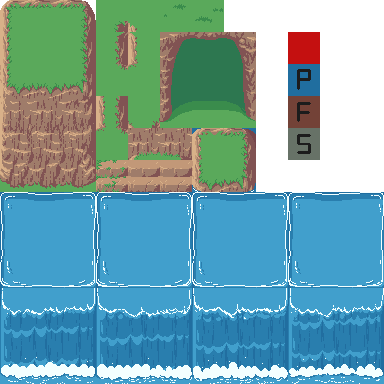
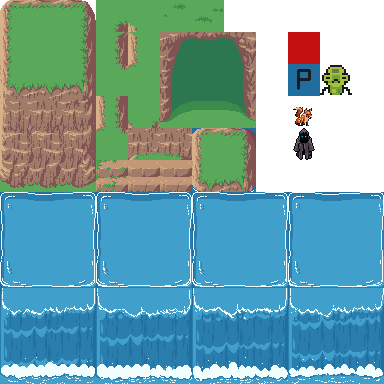
improved enemies

Changed region(s): [[0.75, 0.1562, 0.9375, 0.4375]]

diff --git a/my_code/level.py b/my_code/level.py
@@ -7,21 +7,22 @@ from support import *
 from random import choice
 from weapon import Weapon
 from ui import UI
+from enemy import Enemy
 
 class Level:
     def __init__(self):
 
-        #get the display surface
+        # get the display surface
         self.display_surface = pygame.display.get_surface()
         
         # sprite group setup
-        self.visable_sprites = YSortCameraGroup()
+        self.visible_sprites = YSortCameraGroup()
         self.obstacle_sprites = pygame.sprite.Group()
 
         # attack sprites
         self.current_attack = None
 
-        #sprite setup
+        # sprite setup
         self.create_map()
 
         # user interface
@@ -34,11 +35,12 @@ class Level:
             'object_collide': import_csv_layout('../my_map/map_ObjectsCollide.csv'),
             'object_detail1': import_csv_layout('../my_map/map_ObjectsDetail1.csv'),
             'object_detail2': import_csv_layout('../my_map/map_ObjectsDetail2.csv'),
+            'entities'      : import_csv_layout('../my_map/map_Entities.csv'),
             
         }
         graphics = {
             'grass'  : import_folder('../my_graphics/grass'),
-            'objects': import_folder('../my_graphics/objects') # path here
+            'objects': import_folder('../my_graphics/objects')
         }
         
         for style,layout in layouts.items():
@@ -48,45 +50,47 @@ class Level:
                         x = col_index * TILESIZE
                         y = row_index * TILESIZE
                         if style == 'boundary':
-                            Tile((x,y),[self.obstacle_sprites],'invisible') # include self.visable_sprites to make boundary visable
+                            Tile((x,y),[self.obstacle_sprites],'invisible') # include self.visible_sprites to make boundary visible
                         
                         # create grass tiles
                         if style == 'grass':                            
                             random_grass_image = choice(graphics['grass'])
-                            Tile((x,y), [self.visable_sprites,self.obstacle_sprites],'grass',random_grass_image)
+                            Tile((x,y), [self.visible_sprites,self.obstacle_sprites],'grass',random_grass_image)
                         
                         # create an collisionable object tiles
                         if style == 'object_collide':                            
                             surf = graphics['objects'][int(col)]
-                            Tile((x,y),[self.visable_sprites,self.obstacle_sprites], 'object_collide',surf)
+                            Tile((x,y),[self.visible_sprites,self.obstacle_sprites], 'object_collide',surf)
                         
                         # create layer 1 object tiles
                         if style == 'object_detail1':                    
                             surf = graphics['objects'][int(col)]
-                            Tile((x,y),[self.visable_sprites], 'object_detail1',surf)
-                        
+                            Tile((x,y),[self.visible_sprites], 'object_detail1',surf)
+
                         # create layer 2 object tiles
                         if style == 'object_detail2':                          
                             surf = graphics['objects'][int(col)]
-                            Tile((x,y),[self.visable_sprites], 'object_detail12',surf)
-
-                if col == 'x':
-                    Tile((x, y), [self.visable_sprites,self.obstacle_sprites])
-                if col == 'p':
-                    self.player = Player((x, y), [self.visable_sprites],self.obstacle_sprites)
-        
-        self.player = Player(
-            (700, 550), 
-            [self.visable_sprites],
-            self.obstacle_sprites,
-            self.create_attack,
-            self.destroy_attack,
-            self.create_magic)
+                            Tile((x,y),[self.visible_sprites], 'object_detail12',surf)                        
+                        
+                        if style == 'entities':
+                            if col == '33':        
+                                self.player = Player(
+                                    (x, y), 
+                                    [self.visible_sprites],
+                                    self.obstacle_sprites,
+                                    self.create_attack,
+                                    self.destroy_attack,
+                                    self.create_magic)
+                            else:
+                                if col == '45': monster_name = 'kitsune'
+                                elif col == '57': monster_name = 'shade'
+                                else: monster_name = 'bamboo'
+                                Enemy(monster_name,(x,y),[self.visible_sprites],self.obstacle_sprites)
 
     def create_attack(self):
-        self.current_attack = Weapon(self.player, [self.visable_sprites])
+        self.current_attack = Weapon(self.player, [self.visible_sprites])
 
-    def create_magic(self,style, strength,cost):
+    def create_magic(self,style,strength,cost):
         print(style)
         print(strength)
         print(cost)
@@ -98,10 +102,10 @@ class Level:
 
     def run(self):
         # update and draw the game
-        self.visable_sprites.custom_draw(self.player)
-        self.visable_sprites.update()
+        self.visible_sprites.custom_draw(self.player)
+        self.visible_sprites.update()
+        self.visible_sprites.enemy_update(self.player)
         self.ui.display(self.player)
-
 
 class YSortCameraGroup(pygame.sprite.Group):
     def __init__(self):
@@ -128,16 +132,7 @@ class YSortCameraGroup(pygame.sprite.Group):
         self.floor_surf = pygame.image.load('../my_graphics/tilemap/ground.png').convert()
         self.floor_rect = self.floor_surf.get_rect(topleft = (0,0))
 
-    # def zoom_keyboard_controls(self):
-    #     keys = pygame.key.get_pressed()
-    #     if keys[pygame.K_q]:
-    #         self.zoom_scale += 0.1
-    #     if keys[pygame.K_e]:
-    #         self.zoom_scale -= 0.1
-
     def custom_draw(self,player):
-        # keyboard zoom control
-        # self.zoom_keyboard_controls()
 
         # getting the offset
         self.offset.x = player.rect.centerx - self.half_width
@@ -156,3 +151,8 @@ class YSortCameraGroup(pygame.sprite.Group):
         scaled_rect = scaled_surf.get_rect(center = (self.half_width, self.half_height))
 
         self.display_surface.blit(scaled_surf, scaled_rect)
+
+    def enemy_update(self,player):
+        enemy_sprites = [sprite for sprite in self.sprites() if hasattr(sprite,'sprite_type') and sprite.sprite_type == 'enemy']
+        for enemy in enemy_sprites:
+            enemy.enemy_update(player)

diff --git a/my_code/enemy.py b/my_code/enemy.py
@@ -1,0 +1,88 @@
+import pygame
+from settings import *
+from entity import Entity
+from support import *
+
+class Enemy(Entity):
+    def __init__(self, monster_name,pos,groups,obstacle_sprites):
+
+        # general sete up
+        super().__init__(groups)
+        self.sprite_type = 'enemy'
+
+        # graphics setup
+        self.import_graphics(monster_name)
+        self.status = 'idle'
+        self.image = self.animations[self.status][self.frame_index]
+
+        # movement
+        self.rect = self.image.get_rect(topleft = pos)
+        self.hitbox = self.rect.inflate(0,0)
+        self.obstacle_sprites = obstacle_sprites        
+
+        # stats
+        self. monster_name = monster_name
+        monster_info = monster_data[self.monster_name]
+        self.health = monster_info['health']
+        self.exp = monster_info['exp']
+        self.speed = monster_info['speed']
+        self.attack_damage = monster_info['damage']
+        self.resistance = monster_info['resistance']
+        self.attack_radius = monster_info['attack_radius']
+        self.notice_radius = monster_info['notice_radius']
+        self.attack_type = monster_info['attack_type']
+
+    def import_graphics(self,name):
+        self.animations = {'idle':[], 'move':[],'attack':[]}
+        main_path = f'../my_graphics/monsters/{name}/'
+        for animation in self.animations.keys():
+            self.animations[animation] = import_folder(main_path + animation)
+
+
+    def get_player_distance_direction(self,player):
+        enemy_vec = pygame.math.Vector2(self.rect.center)
+        player_vec = pygame.math.Vector2(player.rect.center)
+        distance = (player_vec - enemy_vec).magnitude()
+
+        if distance > 0:
+            direction = (player_vec - enemy_vec).normalize()
+        else:
+            direction = pygame.math.Vector2()
+
+        return (distance,direction)
+
+    def get_status(self, player):
+        distance = self.get_player_distance_direction(player)[0]
+
+        if distance <= self.attack_radius:
+            self.status = 'attack'
+        elif distance <= self.notice_radius:
+            self.status = 'move'
+        else:
+            self.status = 'idle'
+
+    def actions(self,player):
+        if self.status == 'attack':
+            print('attack')
+        elif self.status == 'move':
+            self.direction = self.get_player_distance_direction(player)[1]
+        else:
+            self.direction = pygame.math.Vector2()
+
+    def animate(self):
+        animation = self.animations[self.status]
+
+        self.frame_index += self.animation_speed
+        if self.frame_index >= len(self.animations[self.status]):
+            self.frame_index = 0
+        
+        self.image = animation[int(self.frame_index)]
+        self.rect = self.image.get_rect(center = self.hitbox.center)
+
+    def update(self):
+        self.move(self.speed)
+        self.animate()
+
+    def enemy_update(self,player):
+        self.get_status(player)
+        self.actions(player)

diff --git a/my_code/settings.py b/my_code/settings.py
@@ -34,6 +34,7 @@ magic_data = {
 
 # enemy
 monster_data = {
-    'ninja': {'health': 200,'exp': 100,'damage': 25,'attack_type': 'slash','attack_sound': '','speed': 3,'resistance': 3,'attack_radius': 80,'notice_radius': 360},
-    'kitsune': {'health': 100,'exp': 50,'damage': 15,'attack_type': 'leaf_attack','attack_sound': '','speed': 4,'resistance': 3,'attack_radius': 60,'notice_radius': 350}
+    'shade'  : {'health': 200,'exp': 100,'damage': 25,'attack_type': 'slash','attack_sound': '','speed': 3,'resistance': 3,'attack_radius': 80,'notice_radius': 360},
+    'kitsune': {'health': 100,'exp': 50,'damage': 15,'attack_type': 'leaf_attack','attack_sound': '','speed': 4,'resistance': 3,'attack_radius': 60,'notice_radius': 350},
+    'bamboo' : {'health': 25,'exp': 25,'damage': 5,'attack_type': 'leaf_attack','attack_sound': '','speed': 1,'resistance': 3,'attack_radius': 50,'notice_radius': 300}
 }
